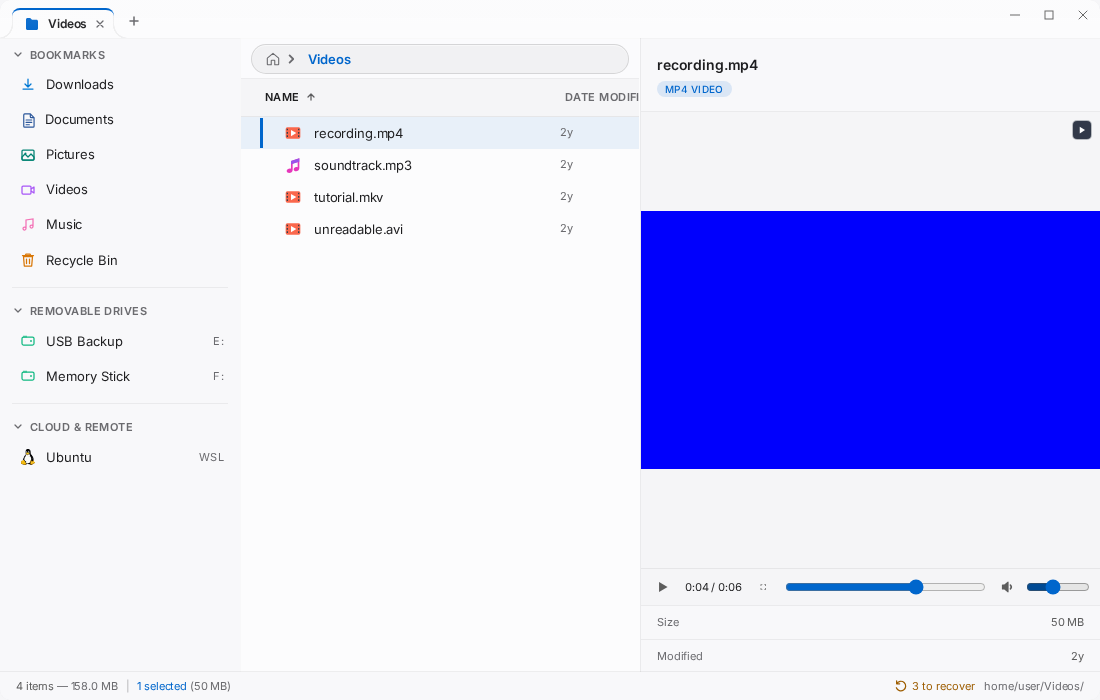
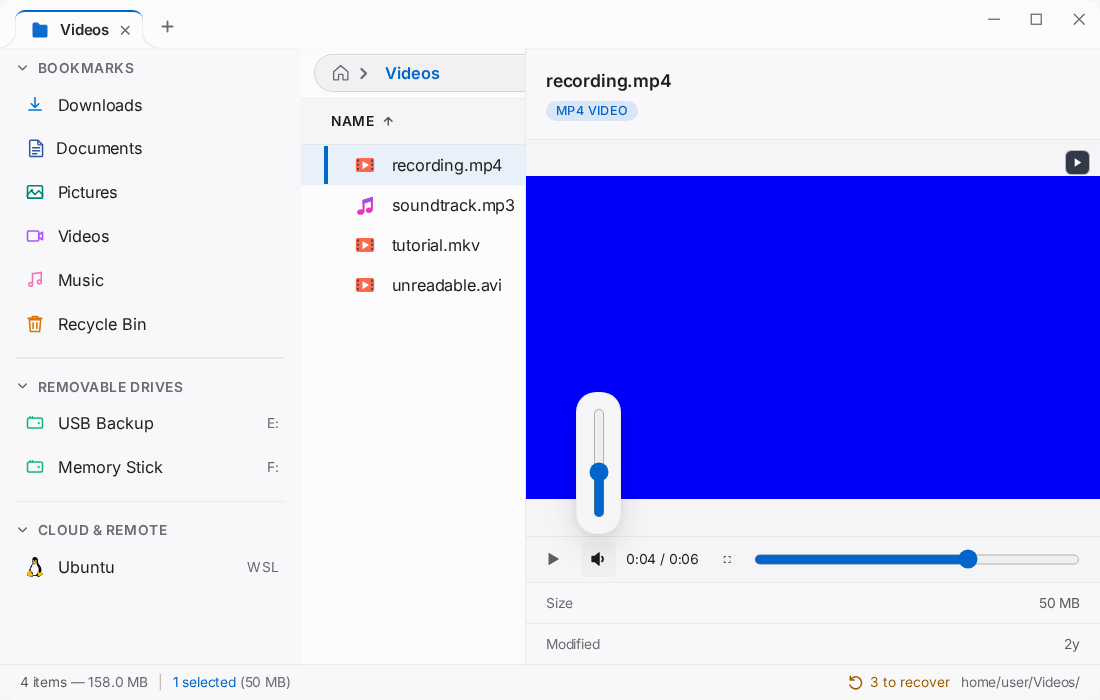
feat: open the video volume slider as an upright pop-up above the speaker (#1425)
CI's headed WebKit run failed "Mute video" deterministically: the inline
reveal grew the slider on hover, moving the speaker under the pointer between
pointerdown and pointerup (reproduced under Xvfb: down on the button, up on the
slider, click on their ancestor), so the button never received the click.

The slider is now a vertical pop-up above the speaker in the
Netflix/Plex/Jellyfin style, so nothing in the controls row moves or resizes
on hover:
- position: fixed escapes the scrollable player's clipping. The offset is
  solved from the pop-up's measured response to a known offset
  (domain/anchored-popup.ts, unit-tested), which holds under root zoom, the
  fullscreen pane's inverse zoom, and each engine's fixed-offset scaling.
- A horizontal range rotated -90deg, which draws and hit-tests the same on
  every engine (vertical writing modes on range need recent WebKit).
- Transparent bottom padding bridges the hover gap; it is a DOM child of the
  control, so moving onto it keeps the pop-up open.
- The speaker moves beside Play in the transport row, so in narrow docks the
  pop-up opens over the picture instead of over the Fullscreen button.
- Keyboard, Escape, wheel, aria, reduced motion and the M key are unchanged.

E2E now asserts the seek bar and speaker boxes are unchanged while the pop-up
is open, the pop-up sits above the centred speaker, and pressing near its top
or bottom sets a high or low volume. Native specs wait for the pop-up and
[…]

diff --git a/src/lib/components/VideoPreview.svelte b/src/lib/components/VideoPreview.svelte
@@ -13,6 +13,7 @@
   import type { VideoLoadJob, VideoSource } from "$lib/state/video-preview-lifetime";
   import { followVideo, needsCompanionAudio } from "$lib/state/video-companion-audio";
   import { isMac, isWindows } from "$lib/domain/platform";
+  import { measuredFixedOffset, popupAbove } from "$lib/domain/anchored-popup";
   let { path, name, fullscreen, ontogglefullscreen }: {path:string;name:string;fullscreen:boolean;ontogglefullscreen:()=>void} = $props();
   let video = $state<HTMLVideoElement | null>(null);
   let source = $state<VideoSource | null>(null);
@@ -33,6 +34,7 @@
   let volumeDismissed = $state(false);
   let muteButton = $state<HTMLButtonElement | null>(null);
   let volumeControl = $state<HTMLDivElement | null>(null);
+  let volumePopup = $state<HTMLDivElement | null>(null);
   const volumeOpen = $derived(ready && !error && (volumeHovered || volumeFocused) && !volumeDismissed);
   // Companion audio when WebKitGTK dropped an undecodable audio track (#1171).
   let audio = $state<HTMLAudioElement | null>(null);
@@ -156,6 +158,34 @@
   function volumeFocusOut(event: FocusEvent) {
     if (!volumeControl?.contains(event.relatedTarget as Node | null)) volumeFocused = false;
   }
+  /**
+   * The popup is `position: fixed` so the scrollable player cannot clip it. Its
+   * offsets scale with root and fullscreen zoom differently per engine, so they
+   * are solved from the popup's measured response to a known offset.
+   */
+  function placeVolumePopup() {
+    const popup = volumePopup;
+    if (!popup || !muteButton) return;
+    popup.style.left = popup.style.top = "0px";
+    const origin = popup.getBoundingClientRect();
+    popup.style.left = popup.style.top = "100px";
+    const probe = popup.getBoundingClientRect();
+    const target = popupAbove(muteButton.getBoundingClientRect(), origin,
+      { width: document.documentElement.clientWidth, height: document.documentElement.clientHeight });
+    popup.style.left = `${measuredFixedOffset(target.x, origin.left, probe.left)}px`;
+    popup.style.top = `${measuredFixedOffset(target.y, origin.top, probe.top)}px`;
+  }
+  $effect(() => {
+    if (!volumeOpen) return;
+    placeVolumePopup();
+    // Scrolling the constrained player or resizing moves the speaker under a fixed popup.
+    window.addEventListener("scroll", placeVolumePopup, true);
+    window.addEventListener("resize", placeVolumePopup);
+    return () => {
+      window.removeEventListener("scroll", placeVolumePopup, true);
+      window.removeEventListener("resize", placeVolumePopup);
+    };
+  });
   $effect(() => {
     // Non-passive, so wheeling over the speaker adjusts volume instead of scrolling the pane.
     const element = volumeControl;
@@ -238,18 +268,6 @@
     <div class="transport">
       <button type="button" aria-label={playing ? "Pause video" : "Play video"} title={playing ? "Pause (Space)" : "Play (Space)"}
         disabled={!ready || !!error} onclick={togglePlay}>{playing ? "Ⅱ" : "▶"}</button>
-      <span class="video-time" aria-label="Video time">{mediaTime(current)} / {mediaTime(duration)}</span>
-      <button type="button" class="fullscreen-button" aria-label={fullscreen ? "Exit video fullscreen" : "View video fullscreen"}
-        title="Fullscreen (F)" onclick={ontogglefullscreen}>⛶</button>
-    </div>
-    <input class="seek" type="range" aria-label="Seek video" aria-valuetext="{mediaTime(current)} of {mediaTime(duration)}"
-      min="0" max={duration || 1} step="0.1" value={current} disabled={!ready || duration <= 0 || !!error}
-      oninput={event => seek(event.currentTarget.valueAsNumber)} />
-    <div class="sound">
-      {#if audioNote}
-        <span class="audio-note" role="status" title={audioNote === "preparing" ? "Decoding this video's audio track" : audioNote.error}>
-          {audioNote === "preparing" ? "Preparing audio…" : "Audio unavailable"}</span>
-      {/if}
       <!-- svelte-ignore a11y_no_static_element_interactions -- hover/focus reveal and Escape collapse for the speaker's slider; the button and range keep native semantics. -->
       <div class="volume" class:open={volumeOpen} data-level={level} bind:this={volumeControl}
         onpointerenter={() => { volumeHovered = true; volumeDismissed = false; }} onpointerleave={() => volumeHovered = false}
@@ -266,10 +284,27 @@
             {/if}
           </svg>
         </button>
-        <input class="volume-slider" type="range" aria-label="Video volume" aria-valuetext={volumeText(sound)} min="0" max="1" step={VOLUME_STEP}
-          value={audibleVolume(sound)} disabled={!ready || !!error}
-          oninput={event => setVolume(event.currentTarget.valueAsNumber)} />
+        <!-- Above the speaker, outside the controls' layout; its transparent bottom padding bridges the hover gap. -->
+        <div class="volume-popup" bind:this={volumePopup}>
+          <div class="volume-panel">
+            <input class="volume-slider" type="range" aria-label="Video volume" aria-valuetext={volumeText(sound)} min="0" max="1" step={VOLUME_STEP}
+              value={audibleVolume(sound)} disabled={!ready || !!error}
+              oninput={event => setVolume(event.currentTarget.valueAsNumber)} />
+          </div>
+        </div>
       </div>
+      <span class="video-time" aria-label="Video time">{mediaTime(current)} / {mediaTime(duration)}</span>
+      <button type="button" class="fullscreen-button" aria-label={fullscreen ? "Exit video fullscreen" : "View video fullscreen"}
+        title="Fullscreen (F)" onclick={ontogglefullscreen}>⛶</button>
+    </div>
+    <input class="seek" type="range" aria-label="Seek video" aria-valuetext="{mediaTime(current)} of {mediaTime(duration)}"
+      min="0" max={duration || 1} step="0.1" value={current} disabled={!ready || duration <= 0 || !!error}
+      oninput={event => seek(event.currentTarget.valueAsNumber)} />
+    <div class="sound">
+      {#if audioNote}
+        <span class="audio-note" role="status" title={audioNote === "preparing" ? "Decoding this video's audio track" : audioNote.error}>
+          {audioNote === "preparing" ? "Preparing audio…" : "Audio unavailable"}</span>
+      {/if}
     </div>
   </div>
 </div>
@@ -288,10 +323,15 @@
   .sound {display:flex;align-items:center;gap:4px;}
   .volume {display:flex;align-items:center;}
   .volume-button {display:inline-flex;align-items:center;justify-content:center;}
-  /* Collapsed: no width and out of the tab order; the speaker alone carries mute. */
-  .volume-slider {width:0;margin:0;opacity:0;visibility:hidden;transition:width 120ms ease-out,opacity 120ms ease-out,visibility 0s 120ms;}
-  .volume.open .volume-slider {width:64px;margin:0 2px 0 4px;opacity:1;visibility:visible;transition:width 120ms ease-out,opacity 120ms ease-out,visibility 0s;}
-  @media (prefers-reduced-motion: reduce) { .volume-slider,.volume.open .volume-slider {transition:none;} }
+  /* Hidden (and out of the tab order) until revealed; it never takes layout space in the controls row. */
+  .volume-popup {position:fixed;left:0;top:0;z-index:var(--z-menu);box-sizing:border-box;width:36px;height:120px;padding-bottom:6px;
+    visibility:hidden;opacity:0;transition:opacity 120ms ease-out,visibility 0s 120ms;}
+  .volume.open .volume-popup {visibility:visible;opacity:1;transition:opacity 120ms ease-out,visibility 0s;}
+  @media (prefers-reduced-motion: reduce) { .volume-popup,.volume.open .volume-popup {transition:none;} }
+  .volume-panel {position:relative;box-sizing:border-box;height:100%;border:1px solid var(--surface-stroke-flyout,var(--divider));border-radius:var(--radius-lg,6px);
+    background:var(--background-solid);box-shadow:var(--shadow-flyout);}
+  /* A horizontal range turned upright: rotation draws and hit-tests the same on every engine, unlike vertical writing modes on older WebKit. */
+  .volume-slider {position:absolute;left:50%;top:50%;width:88px;margin:0;transform:translate(-50%,-50%) rotate(-90deg);}
   .audio-note {font-size:var(--font-size-caption);color:var(--text-secondary);white-space:nowrap;}
   button {min-width:28px;min-height:28px;border:0;border-radius:4px;padding:0 6px;background:transparent;color:var(--text-secondary);font:inherit;font-size:var(--font-size-caption);cursor:pointer;}
   button:hover:enabled {background:var(--subtle-fill-tertiary);color:var(--text-primary);}

diff --git a/e2e/video-preview.spec.ts b/e2e/video-preview.spec.ts
@@ -97,7 +97,8 @@ for (const dock of ["right", "top", "bottom"]) {
       await expect(control).toBeInViewport();
       expect(await control.evaluate(element => {
         const rect = element.getBoundingClientRect();
-        return element.contains(document.elementFromPoint(rect.x + rect.width / 2, rect.y + rect.height / 2));
+        const hit = document.elementFromPoint(rect.x + rect.width / 2, rect.y + rect.height / 2);
+        return element.contains(hit) || `${element.getAttribute("aria-label")} hit ${hit?.className} rect ${JSON.stringify(rect)}`;
       })).toBe(true);
     }
     await player.evaluate(element => { element.scrollTop = 0; });
@@ -305,9 +306,26 @@ test("the speaker icon mutes and restores the previous volume; its slider reveal
   const player = await openVideo(page);
   const speaker = player.locator(".volume-button");
   const slider = player.getByRole("slider", { name: "Video volume", exact: true });
+  const seek = player.getByRole("slider", { name: "Seek video", exact: true });
+  const seekBefore = await seek.boundingBox();
+  const speakerBefore = await speaker.boundingBox();
   await expect(slider).toBeHidden();
   await player.locator(".volume").hover();
   await expect(slider).toBeVisible();
+  // The pop-up overlays the player: nothing in the controls row moves or resizes.
+  expect(await seek.boundingBox()).toEqual(seekBefore);
+  expect(await speaker.boundingBox()).toEqual(speakerBefore);
+  const [speakerBox, sliderBox] = [(await speaker.boundingBox())!, (await slider.boundingBox())!];
+  expect(sliderBox.height).toBeGreaterThan(sliderBox.width * 2);
+  expect(sliderBox.y + sliderBox.height).toBeLessThanOrEqual(speakerBox.y);
+  expect(Math.abs(sliderBox.x + sliderBox.width / 2 - (speakerBox.x + speakerBox.width / 2))).toBeLessThan(2);
+  // Pressing near the top of the upright slider is loud, near the bottom quiet; the pointer
+  // crosses the hover bridge on the way, so the pop-up stays open.
+  await page.mouse.move(sliderBox.x + sliderBox.width / 2, sliderBox.y + 4, { steps: 4 });
+  await page.mouse.down(); await page.mouse.up();
+  await expect.poll(async () => (await sound(page)).volume).toBeGreaterThan(0.85);
+  await page.mouse.click(sliderBox.x + sliderBox.width / 2, sliderBox.y + sliderBox.height - 4);
+  await expect.poll(async () => (await sound(page)).volume).toBeLessThan(0.15);
   await slider.fill("0.4");
   expect(await sound(page)).toEqual({ volume: 0.4, muted: false });
   await expect(slider).toHaveAttribute("aria-valuetext", "40%");
@@ -342,7 +360,7 @@ test("the volume control is keyboard operable and Escape collapses its slider (#
   const player = await openVideo(page);
   const speaker = player.locator(".volume-button");
   const slider = player.getByRole("slider", { name: "Video volume", exact: true });
-  await player.getByRole("slider", { name: "Seek video", exact: true }).focus();
+  await player.getByRole("button", { name: "Play video", exact: true }).focus();
   await page.keyboard.press("Tab");
   await expect(speaker).toBeFocused();
   await expect(slider).toBeVisible();

diff --git a/e2e-tauri/specs/video-preview.spec.ts b/e2e-tauri/specs/video-preview.spec.ts
@@ -59,8 +59,8 @@ async function cleanup(identity?:NativeFileIdentity){let stats=await videoStats(
 
   it("controls remain operable in all three docks at app zoom 150%",async()=>{
     await select(colors);await videoCommand("Reset Zoom");for(let n=0;n<5;n++)await videoCommand("Zoom In");
-    for(const dock of ["Right","Top","Bottom"]){await $(entryPathSelector(colors)).click();await videoCommand(`Dock Preview Pane ${dock}`);await ready();await revealVolume();
-      const bounds=await browser.execute(()=>{const pane=document.querySelector(".video-preview")!.getBoundingClientRect();return Array.from(document.querySelectorAll(".video-controls button,.video-controls input")).map(element=>{const r=element.getBoundingClientRect();return {label:element.getAttribute("aria-label"),inside:r.width>0&&r.height>0&&r.x>=pane.x-1&&r.right<=pane.right+1&&r.y>=pane.y-1&&r.bottom<=pane.bottom+1};});});expect(bounds.every(v=>v.inside)).toBe(true);
+    for(const dock of ["Right","Top","Bottom"]){await $(entryPathSelector(colors)).click();await videoCommand(`Dock Preview Pane ${dock}`);await ready();
+      const bounds=await browser.execute(()=>{const pane=document.querySelector(".video-preview")!.getBoundingClientRect();return Array.from(document.querySelectorAll(".video-controls button,.video-controls input:not(.volume-slider)")).map(element=>{const r=element.getBoundingClientRect();return {label:element.getAttribute("aria-label"),inside:r.width>0&&r.height>0&&r.x>=pane.x-1&&r.right<=pane.right+1&&r.y>=pane.y-1&&r.bottom<=pane.bottom+1};});});expect(bounds.every(v=>v.inside)).toBe(true);
       await playAndPause();await seekFour();report(`native-dock-${dock.toLowerCase()}.json`,{bounds,state:await videoState()});await browser.saveScreenshot(path.join(proof,`native-dock-${dock.toLowerCase()}-150.png`));
     }
   });

diff --git a/src/lib/domain/anchored-popup.ts b/src/lib/domain/anchored-popup.ts
@@ -1,0 +1,31 @@
+/**
+ * Placement for a small `position: fixed` popup anchored above a control, such
+ * as the video volume slider (#1425). Fixed positioning lets the popup escape
+ * clipping by the scrollable player, but its offsets scale differently under
+ * root CSS zoom, nested zoom (fullscreen previews undo the app zoom) and each
+ * engine (see `zoom.ts`). Rather than model every case, the caller measures how
+ * the popup's rect responds to a known offset and solves for the offset that
+ * lands it on the target; everything here is rect-space arithmetic.
+ */
+export interface RectBox { readonly left: number; readonly top: number; readonly width: number; readonly height: number; }
+export interface Point { readonly x: number; readonly y: number; }
+
+/**
+ * Rect-space top-left that centres `popup` horizontally over `anchor` with its
+ * bottom edge on the anchor's top edge, kept `padding` inside the viewport.
+ */
+export function popupAbove(anchor: RectBox, popup: { width: number; height: number },
+  viewport: { width: number; height: number }, padding = 4): Point {
+  const clamp = (value: number, max: number) => Math.max(padding, Math.min(value, max - padding));
+  return {
+    x: clamp(anchor.left + anchor.width / 2 - popup.width / 2, viewport.width - popup.width),
+    y: clamp(anchor.top - popup.height, viewport.height - popup.height),
+  };
+}
+
+/** The CSS offset placing an edge at `target`, from its rect edge at offset 0 (`origin`) and at offset 100px (`probe`). */
+export function measuredFixedOffset(target: number, origin: number, probe: number): number {
+  const scale = (probe - origin) / 100;
+  const offset = target - origin;
+  return Number.isFinite(scale) && scale > 0 ? offset / scale : offset;
+}

diff --git a/tests/domain/anchored-popup.test.ts b/tests/domain/anchored-popup.test.ts
@@ -1,0 +1,29 @@
+import { describe, expect, it } from "vitest";
+import { measuredFixedOffset, popupAbove } from "$lib/domain/anchored-popup";
+
+const viewport = { width: 800, height: 600 };
+describe("anchored popup placement (#1425)", () => {
+  it("centres the popup over its anchor with its bottom on the anchor's top", () => {
+    expect(popupAbove({ left: 400, top: 500, width: 28, height: 28 }, { width: 36, height: 110 }, viewport))
+      .toEqual({ x: 396, y: 390 });
+  });
+
+  it("stays inside the viewport near an edge or when there is no room above", () => {
+    expect(popupAbove({ left: 780, top: 500, width: 28, height: 28 }, { width: 36, height: 110 }, viewport).x).toBe(760);
+    expect(popupAbove({ left: 0, top: 40, width: 28, height: 28 }, { width: 36, height: 110 }, viewport)).toEqual({ x: 4, y: 4 });
+  });
+
+  it("solves fixed offsets from the measured response, whatever the zoom scaling", () => {
+    // Unscaled: offset equals the rect distance from the origin.
+    expect(measuredFixedOffset(250, 10, 110)).toBe(240);
+    // Offsets rendered at 1.5x (root zoom) or 2.25x (doubly scaled legacy WebKit).
+    expect(measuredFixedOffset(310, 10, 160)).toBeCloseTo(200);
+    expect(measuredFixedOffset(235, 10, 235)).toBeCloseTo(100);
+    // A containing block offset shifts the origin, not the scale.
+    expect(measuredFixedOffset(300, 50, 150)).toBe(250);
+  });
+
+  it("falls back to the raw distance when the probe response is unusable", () => {
+    for (const probe of [10, 5, NaN, Infinity]) expect(measuredFixedOffset(250, 10, probe)).toBe(240);
+  });
+});

diff --git a/e2e-tauri/video-observations.ts b/e2e-tauri/video-observations.ts
@@ -48,12 +48,14 @@ export function videoState() {
   });
 }
 /** Native range keyboard semantics; never assigns media or input properties. */
-/** The volume slider is collapsed behind its speaker button until hovered; wait out its reveal (#1425). */
+/** The upright volume slider pops up above its speaker button only while hovered; wait for it to show (#1425). */
 export async function revealVolume(): Promise<void> {
   await $(".video-preview .volume").moveTo();
-  await browser.waitUntil(() => browser.execute(() =>
-    (document.querySelector(".video-preview .volume-slider")?.getBoundingClientRect().width ?? 0) >= 60),
-  { timeout: 5_000, timeoutMsg: "volume slider was not revealed by hovering its speaker" });
+  await browser.waitUntil(() => browser.execute(() => {
+    const popup = document.querySelector(".video-preview .volume-popup");
+    const slider = document.querySelector(".video-preview .volume-slider")?.getBoundingClientRect();
+    return !!popup && getComputedStyle(popup).visibility === "visible" && (slider?.height ?? 0) >= 60;
+  }), { timeout: 5_000, timeoutMsg: "volume slider was not revealed by hovering its speaker" });
 }
 export async function rangeKeys(selector: string, increments: number): Promise<void> {
   await $(selector).click();

diff --git a/docs/code-map/map-feature.md b/docs/code-map/map-feature.md
@@ -313,7 +313,7 @@ backend for E2E/browser).
 
 - `components/ThumbnailImage.svelte` — img element + load/error/placeholder states; `decoding="async"` on both micro and full `<img>`s, no animated loading spinner (static SVG placeholder instead — a continuous CSS animation across many concurrently-loading tiles doubled the long-frame rate on WebKitGTK, #593)
 - `components/FolderThumbnail.svelte` — folder collage from children
-- `components/VideoPreview.svelte`, `domain/video-preview.ts`, `state/video-preview-lifetime.ts`, `api/video-preview.ts`, `src-tauri/src/files/media_preview.rs` — explicit user-started native video playback, owned controls/keyboard input and synchronous unload. Native scoped capabilities use bounded loopback byte ranges with positioned reads, pinned identity and independent connection retirement; thumbnails remain on the existing cached extraction path (#970). On Linux, a video whose audio track WebKitGTK dropped (no GStreamer decoder, e.g. AAC without gst-libav) gets ffmpeg-decoded companion audio from `src-tauri/src/files/media_preview/audio.rs`, followed by `src/lib/state/video-companion-audio.ts` (#1171).
+- `components/VideoPreview.svelte`, `domain/video-preview.ts` (incl. speaker mute/restore volume rules, #1425), `domain/anchored-popup.ts` (volume pop-up placement), `state/video-preview-lifetime.ts`, `api/video-preview.ts`, `src-tauri/src/files/media_preview.rs` — explicit user-started native video playback, owned controls/keyboard input and synchronous unload. Native scoped capabilities use bounded loopback byte ranges with positioned reads, pinned identity and independent connection retirement; thumbnails remain on the existing cached extraction path (#970). On Linux, a video whose audio track WebKitGTK dropped (no GStreamer decoder, e.g. AAC without gst-libav) gets ffmpeg-decoded companion audio from `src-tauri/src/files/media_preview/audio.rs`, followed by `src/lib/state/video-companion-audio.ts` (#1171).
 - `e2e-tauri/specs/video-preview.spec.ts`, `e2e-tauri/specs/video-preview-lifecycle.spec.ts` — actual Linux decoder pixels, transport/RSS budgets, all file-list views, parked-owner activation and native window-destruction retirement (#970).
 - `components/VideoIndicator.svelte` — passive video badge for tile frames/fallbacks and previews; `domain/file-types.ts::isVideoMediaFile` separates true video from audio cover art that shares extraction IPC. `FileIcon.svelte` gives every recognized video a consistent play glyph in compact views and fallback icons (#823).
 - `components/TilesView.svelte` — runs `domain/scroll-jank-monitor.ts` while scrolling and logs a `tiles-scroll-jank` diagnostic event only when a sampled window actually had long frames (#593)

diff --git a/docs/lessons/1425-video-volume-control.md b/docs/lessons/1425-video-volume-control.md
@@ -1,10 +1,24 @@
-# Video volume control renders its own changes immediately
+# Video volume control: a pop-up that never moves the controls row
 
 The speaker button replaced the "Sound" text button and always-visible slider
-(#1425). Its slider is collapsed (zero width, `visibility: hidden`) until the
-volume control is hovered or receives keyboard focus, so browser and native
-specs must reveal it (hover `.volume`, or `revealVolume()` in
-`e2e-tauri/video-observations.ts`) before interacting with or measuring it.
+(#1425). The first version revealed the slider inline by growing its width on
+hover. That moved the speaker under the pointer between `pointerdown` and
+`pointerup`: headed WebKit (CI's Xvfb run) delivered the release to the
+slider, so the click landed on the common ancestor and never muted. Headless
+runs passed. A control revealed on hover must not change the layout of the
+thing being hovered.
+
+The slider is now an upright pop-up above the speaker (`position: fixed`, so
+the scrollable player cannot clip it). Fixed offsets scale differently under
+root zoom, the fullscreen pane's inverse zoom and each engine, so
+`domain/anchored-popup.ts` solves the offset from the pop-up's measured
+response to a known offset instead of modelling each case. It is a horizontal
+range rotated -90deg: rotation draws and hit-tests the same everywhere, while
+vertical writing modes on range inputs need recent engines. Its transparent
+bottom padding bridges the hover gap. The speaker sits beside Play in the
+transport row, so the pop-up opens over the picture, not over Fullscreen.
+Browser and native specs reveal it (hover `.volume`, or `revealVolume()`)
+before using it, and exclude it from pane-containment checks.
 
 `volumechange` is queued and, under load, can trail several inputs. Rendering
 only from that event left the slider at 0 after a quick mute/unmute, and

diff --git a/docs/code-map/map-folder.md b/docs/code-map/map-folder.md
@@ -570,6 +570,7 @@ Layout: frontend `src/lib/` (components / state / api / composables / domain / p
 - `katex-typesetter.ts` — lazy KaTeX typesetter + bundled woff2 fonts, loaded only for math documents (#1393).
 - `marquee-rect.ts` — marquee band geometry as compositor-only `transform`s for five container-sized layers (fill + four 1px edges sized to the client box, scaled down so fractional zoom rasterises exactly); a resized band element repainted its layer over every image tile per frame on WebKitGTK (#1051).
 - `zoom.ts` — CSS zoom level utils.
+- `anchored-popup.ts` — rect-space placement of a fixed pop-up above an anchor, with the CSS offset solved from a measured offset response (zoom/engine independent); used by the video volume pop-up (#1425).
 - `raf-coalesce.ts` — coalesce high-freq value streams via rAF.
 - `scroll-jank-monitor.ts` — pure rAF-gap sampler (rAF/cancel injected) reporting long-frame counts for scroll-jank diagnostics; wired into `TilesView.svelte` (#593).
 - `theme-from-palette.ts` — build theme from extracted image palette (#203); text tokens solved in OKLCH for WCAG AA on every composited surface (#791).
